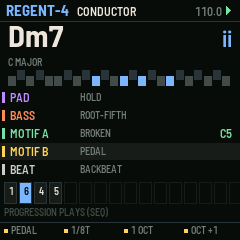
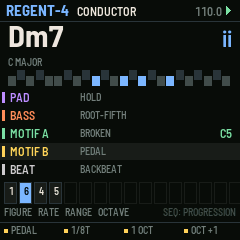
UI pass: held-button hints and clearer screens

Changed region(s): [[0.0, 0.8458, 0.5542, 0.9042], [0.6708, 0.8458, 0.9917, 0.9042]]

diff --git a/app/ui.c b/app/ui.c
@@ -52,6 +52,10 @@ static const char *const CARD_TEXT[NB] = {
 #endif
 };
 
+static const char *const HINTS[NB] = {
+    [B_SEL] = "PRESETS: SCALE",
+};
+
 static void dirty(void) { U.dirty = 1; }
 static void settings_save(void) { plat_store_save(OBJ_SETTINGS, &set, sizeof set); }
 int regent_ble_off(void) { return set.ble_off; }
@@ -435,8 +439,17 @@ static void draw_conductor(void)
             text_c(x + 7, y + 3, &FONT_T, n, now ? K_BG : K_FG);
         }
     }
-    cv_text(4, 184, &FONT_T, H.rec ? "RECORDING THE PROGRESSION" : H.follow ? "PROGRESSION PLAYS (SEQ)" : "YOU CONDUCT: WHITE KEYS",
-            H.rec ? K_REC : K_FAINT);
+    if (H.rec) {
+        cv_text(4, 184, &FONT_T, "RECORDING THE PROGRESSION", K_REC);
+    } else {                                            /* the knobs' names for the part shown */
+        char kn[48] = "";
+        for (i = 0; i < 4u; i++) {
+            s_cat(kn, i ? "   " : "");
+            s_cat(kn, KLAB[U.part][i]);
+        }
+        cv_text(4, 184, &FONT_T, kn, K_DIM);
+        text_r(236, 184, &FONT_T, H.follow ? "SEQ: PROGRESSION" : "", K_FAINT);
+    }
 }
 
 static void draw_prog(void)
@@ -494,6 +507,13 @@ static void draw(void)
         kit_knobs("BEATS", "", "", "", ACCENT);
     } else {
         kit_knobs("VALUE", "", "", "", ACCENT);
+    }
+    if (U.held_white >= 0 && !kit_hint(HINTS, ACCENT)) {   /* a chord key held: what the black keys add */
+        cv_begin(240, 18, ACCENT);
+        cv_text(4, 2, &FONT_T, "BLACK: 7  SUS2  SUS4  ADD9  6  FLIP  FLAT5   8-11: MUTES", K_BG);
+        cv_blit(0, 222);
+    } else {
+        kit_hint(HINTS, ACCENT);
     }
 }
 

diff --git a/app/core/kit.c b/app/core/kit.c
@@ -262,6 +262,30 @@ static void kit_knobs(const char *a, const char *b, const char *c, const char *d
     cv_blit(0, 222);
 }
 
+/* while one button is held (a fifth of a second, before its card), the knob band says what it does now: the map
+ * of a held layer on the screen, so no combination has to be remembered. 1 when drawn (the app skips its knobs) */
+static int kit_hint(const char *const *hints, uint16_t accent)
+{
+    uint32_t i, now = plat_ms();
+    for (i = 0; i < NB; i++)
+        if (hints[i] && HELD(i) && now - K.bt0[i] >= 200u && K.card == NB && (K.btn & ~(1u << i)) == 0u) {
+            cv_begin(240, 18, accent);
+            cv_text(4, 2, &FONT_T, BTN_NM[i], K_BG);
+            cv_text(8 + text_w(&FONT_T, BTN_NM[i]), 2, &FONT_T, hints[i], K_BG);
+            cv_blit(0, 222);
+            return 1;
+        }
+    return 0;
+}
+static int kit_hint_due(const char *const *hints)      /* a frame should redraw for the hint to appear */
+{
+    uint32_t i, now = plat_ms();
+    for (i = 0; i < NB; i++)
+        if (hints[i] && HELD(i) && now - K.bt0[i] >= 200u && now - K.bt0[i] < 260u)
+            return 1;
+    return 0;
+}
+
 /* a value 0..max as a bar w wide (meters, levels) */
 static void bar(int32_t x, int32_t y, int32_t w, int32_t h, int32_t v, int32_t max, uint16_t c)
 {

diff --git a/app/app.c b/app/app.c
@@ -74,6 +74,8 @@ void app_frame(void)
     for (i = 0; i < 16u; i++)
         if (heard[i])
             heard[i]--;
+    if (kit_hint_due(HINTS))
+        K.redraw = 1;
     lights();
     if (K.redraw) {
         K.redraw = 0;
